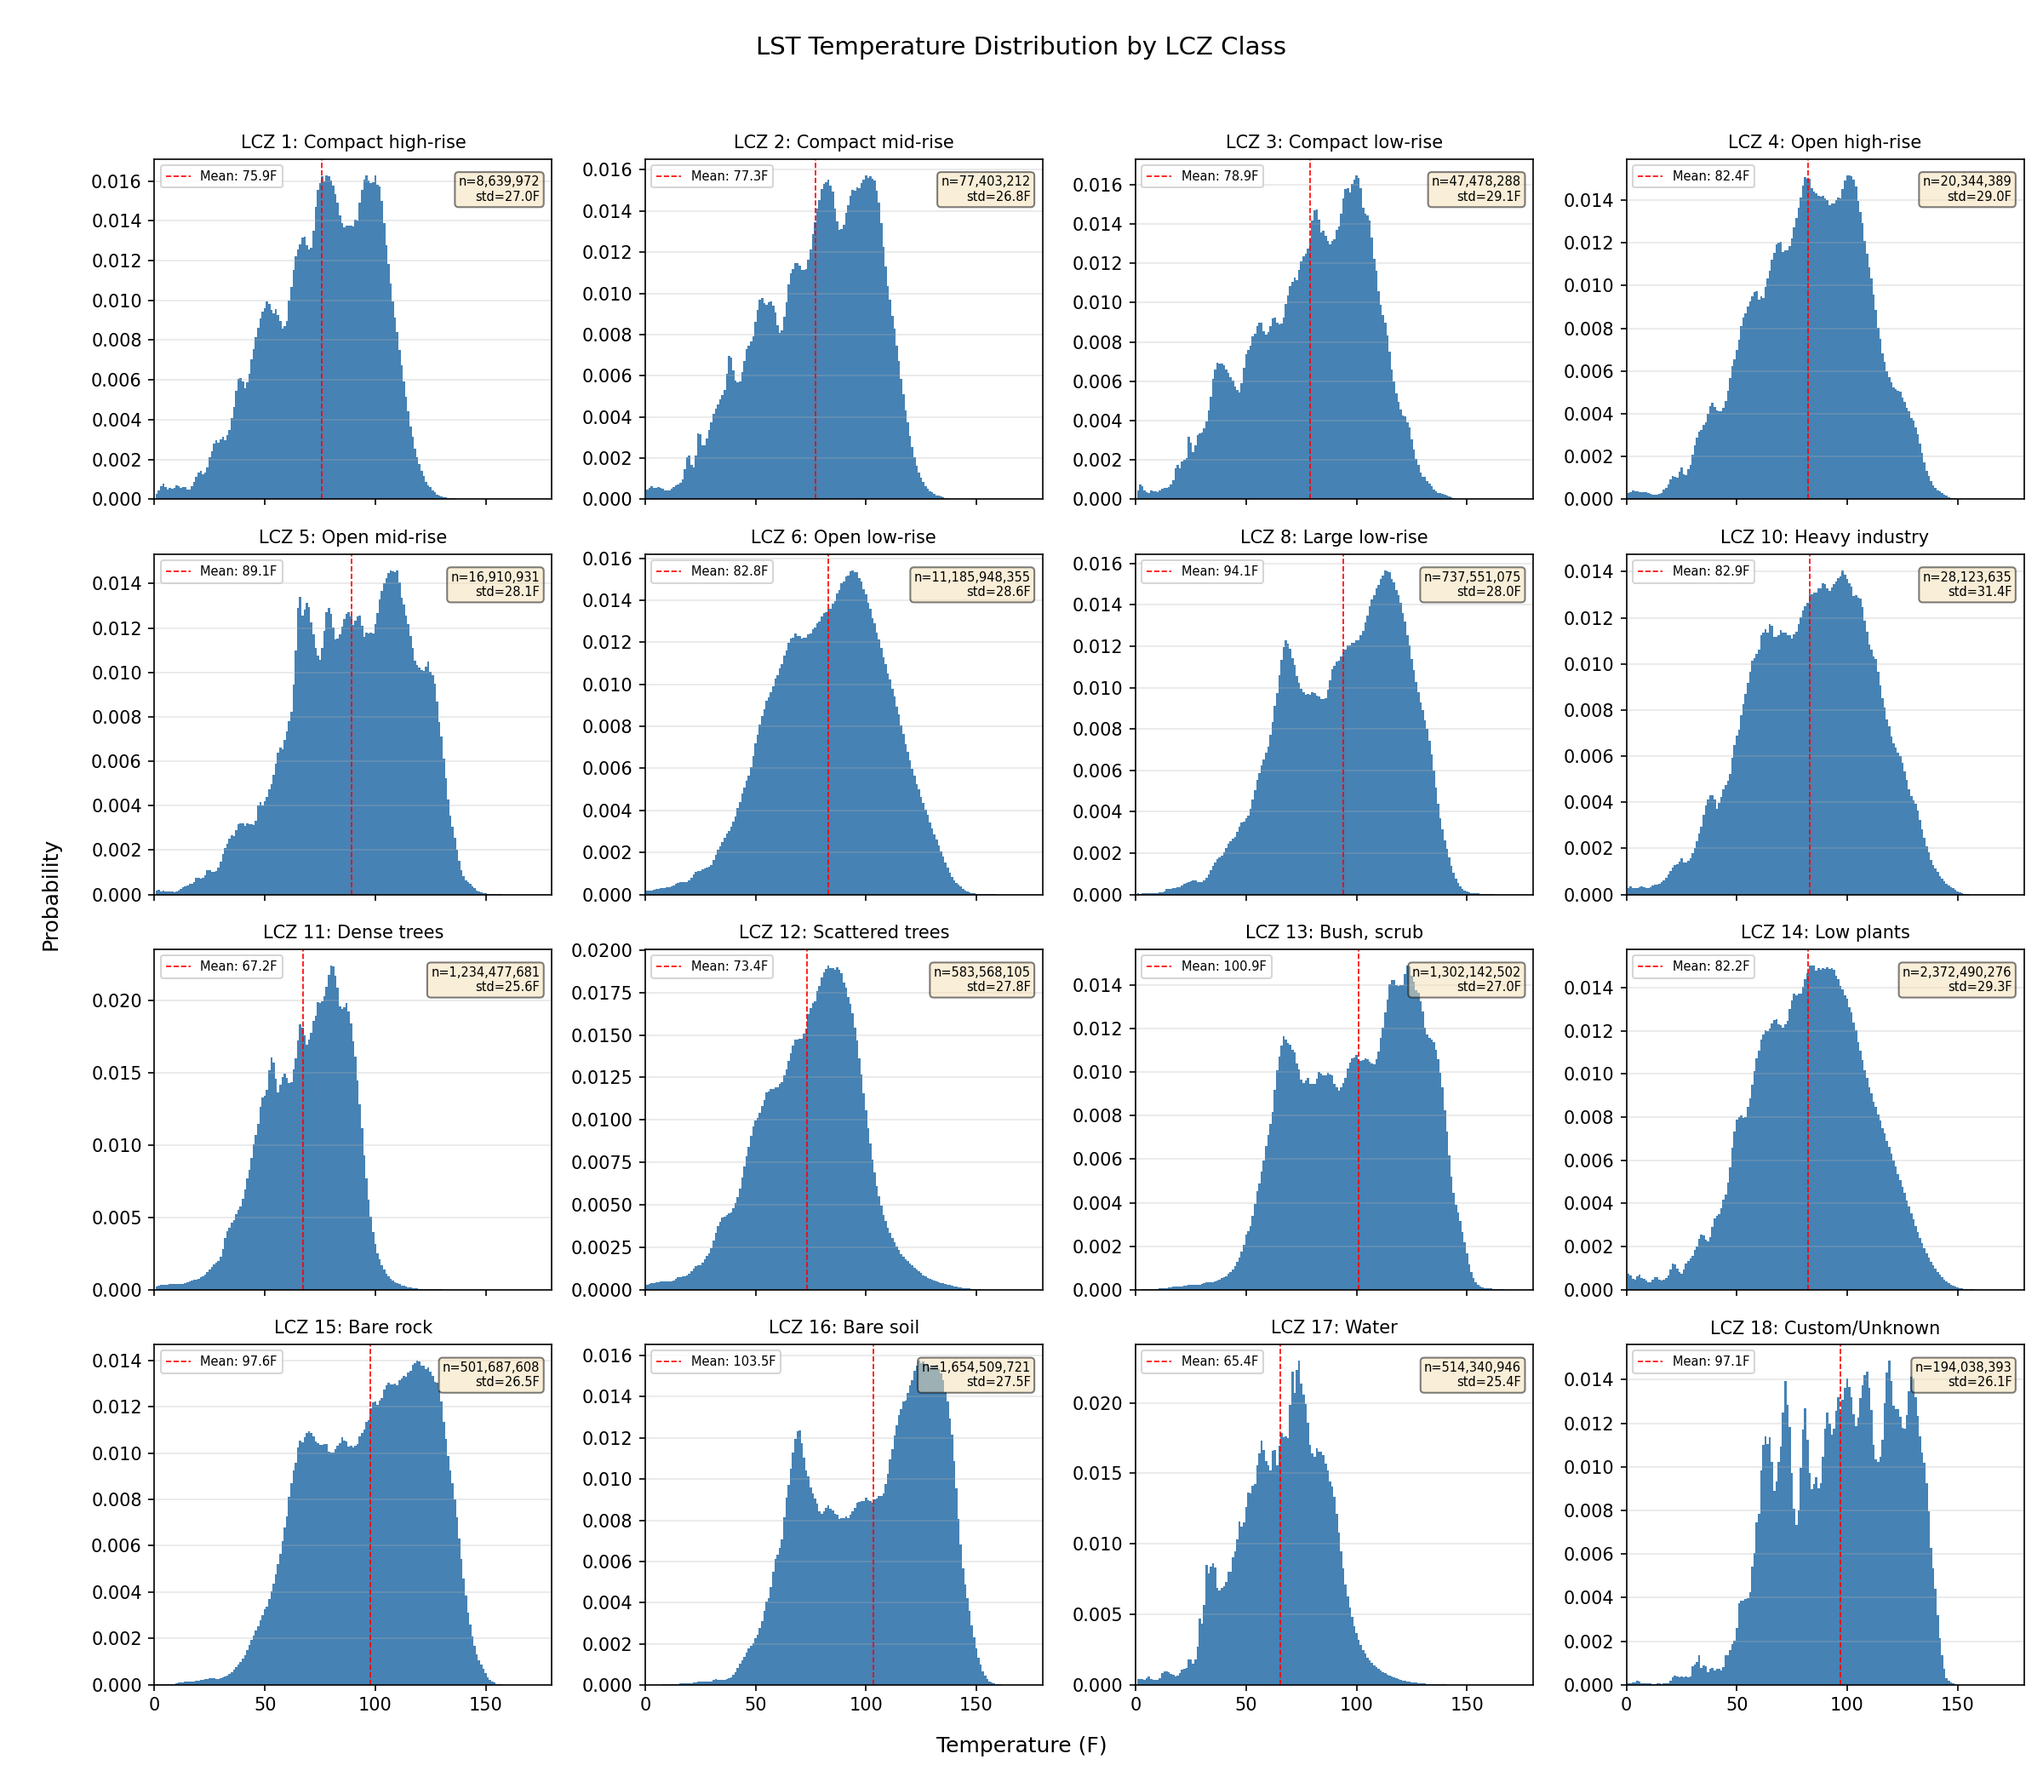
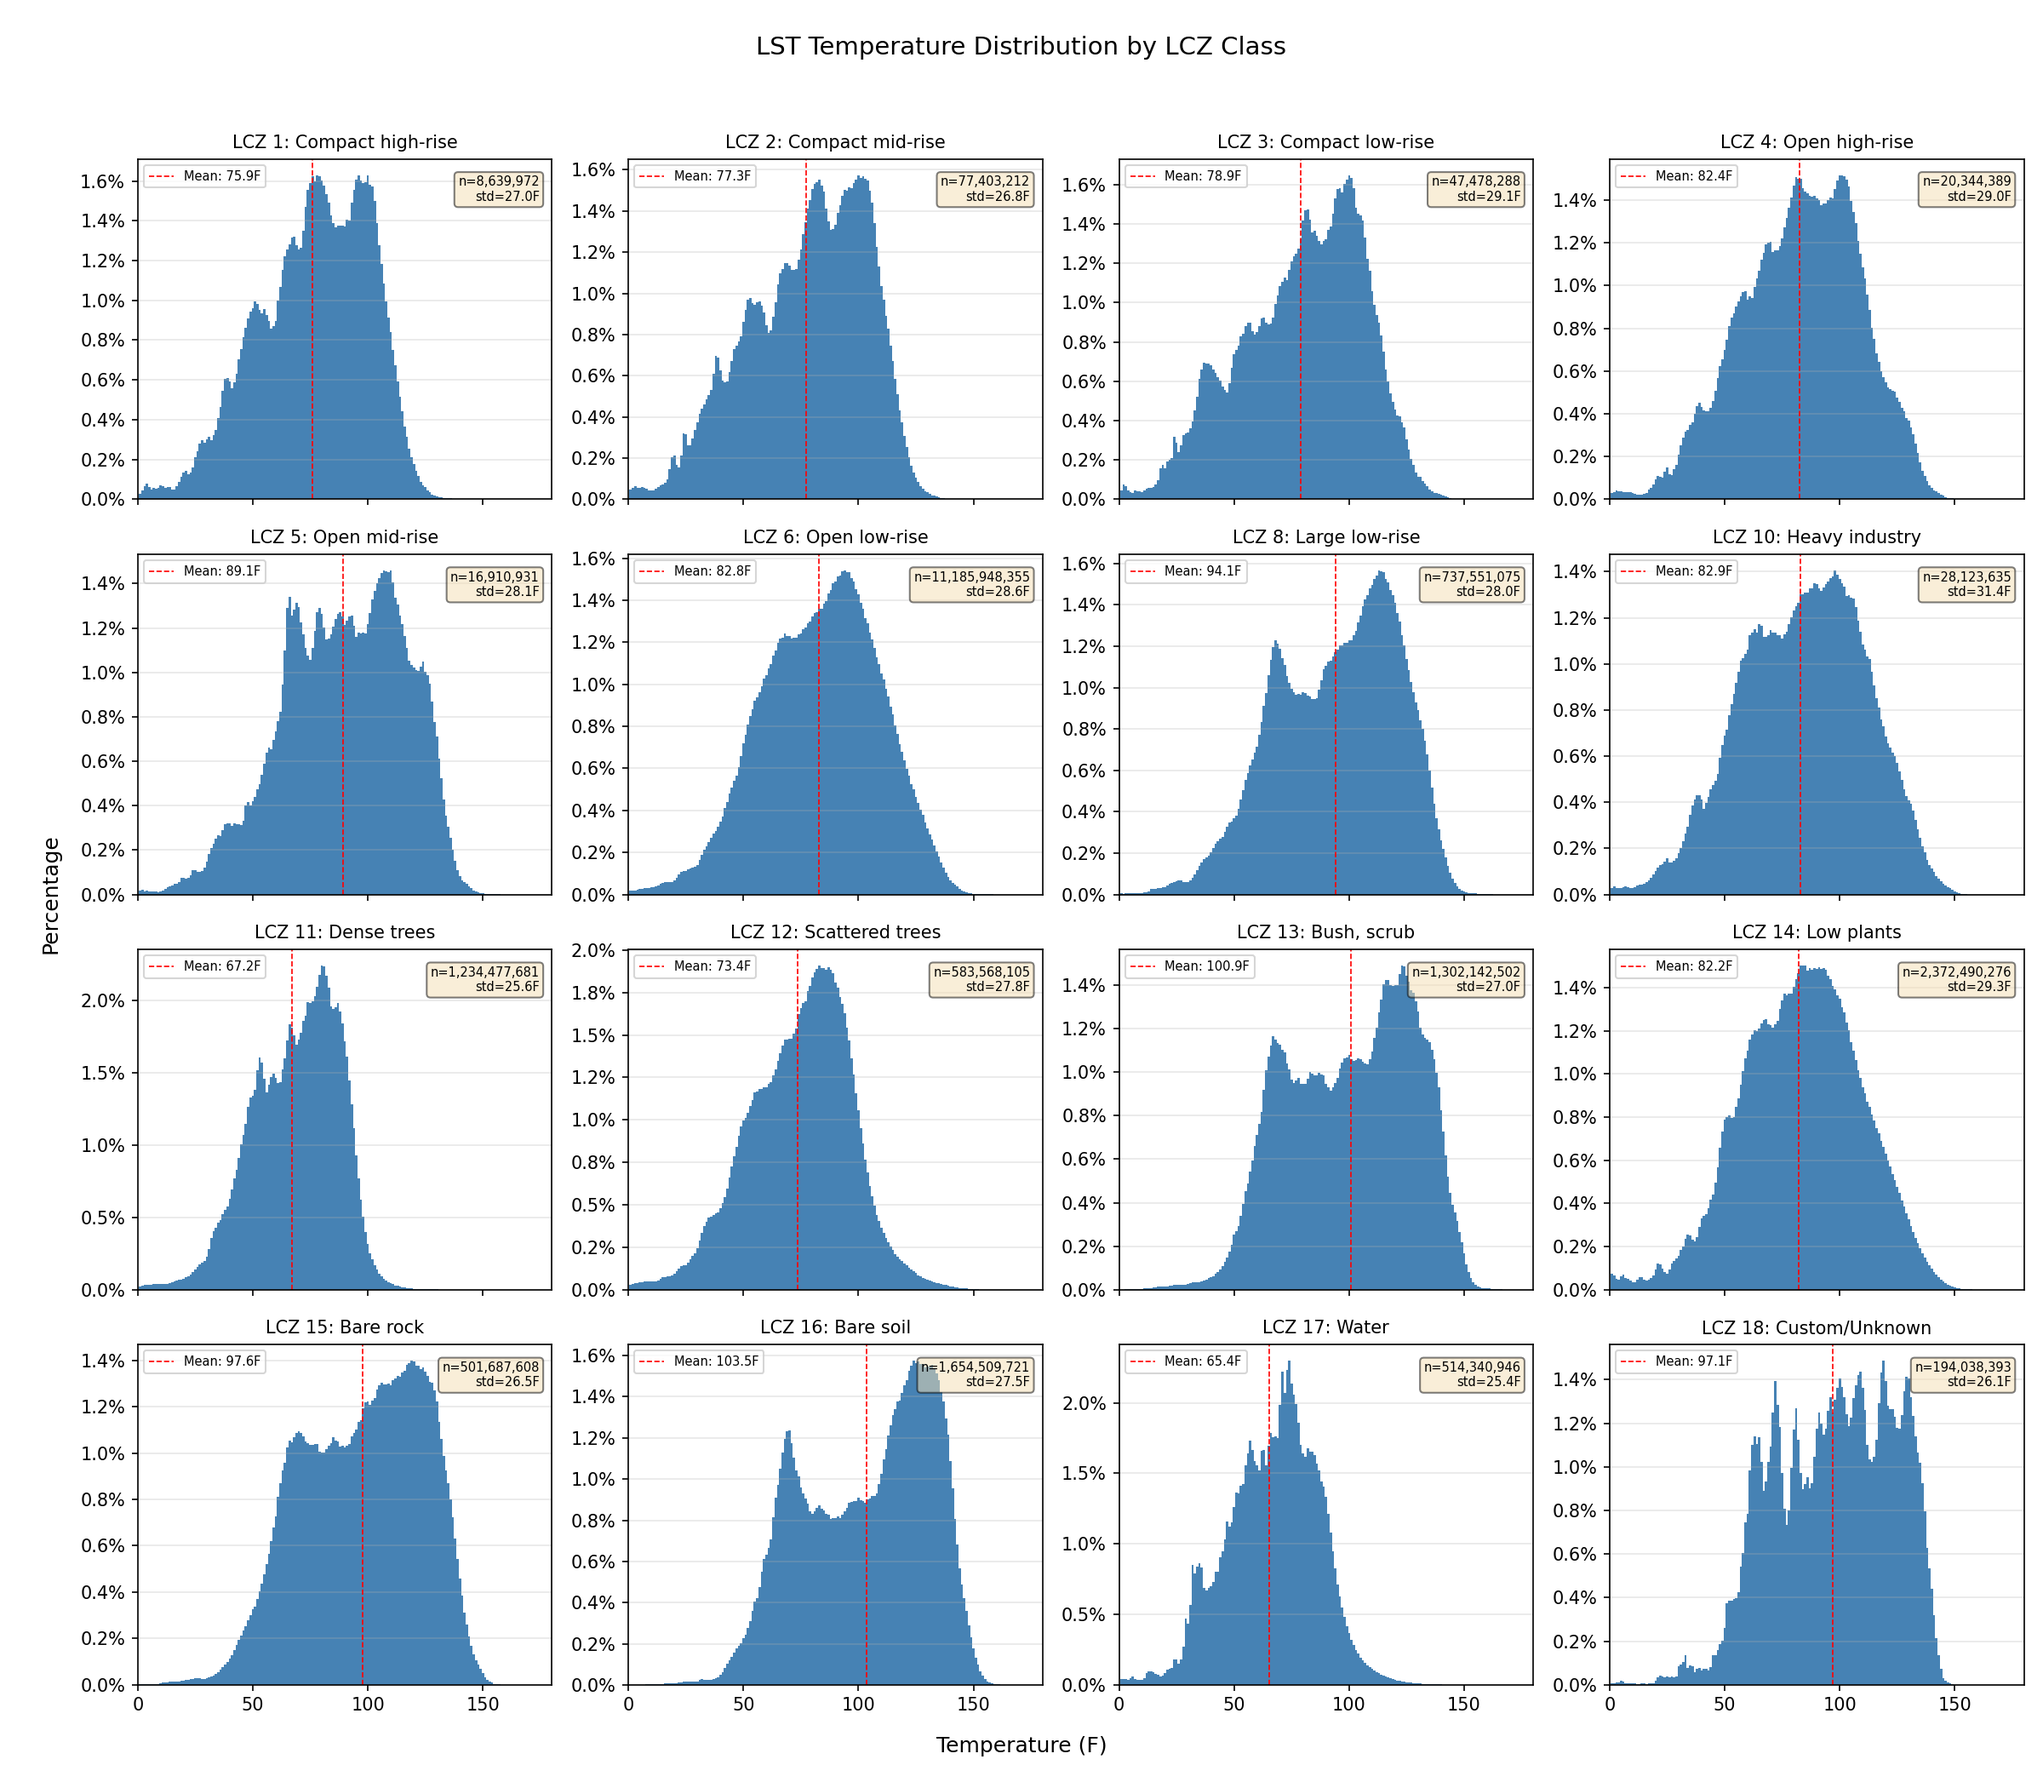
Add standalone subplot script with percentage y-axis
Reads from histogram data file, no dataset needed.

diff --git a/analysis/plot_lst_per_lcz_subplots.py b/analysis/plot_lst_per_lcz_subplots.py
@@ -1,0 +1,96 @@
+#!/usr/bin/env python3
+"""Regenerate LST-per-LCZ subplots from histogram data with percentage y-axis."""
+
+import numpy as np
+import matplotlib.pyplot as plt
+from matplotlib.ticker import FuncFormatter
+from pathlib import Path
+
+OUTPUT_DIR = Path(__file__).resolve().parent / "out"
+
+LCZ_LABELS = {
+    1: "Compact high-rise", 2: "Compact mid-rise", 3: "Compact low-rise",
+    4: "Open high-rise", 5: "Open mid-rise", 6: "Open low-rise",
+    8: "Large low-rise", 10: "Heavy industry",
+    11: "Dense trees", 12: "Scattered trees", 13: "Bush, scrub",
+    14: "Low plants", 15: "Bare rock", 16: "Bare soil",
+    17: "Water", 18: "Custom/Unknown",
+}
+
+# Parse histogram file
+data = {}  # {class_id: {'total': int, 'temps': [], 'counts': []}}
+current_class = None
+
+with open(OUTPUT_DIR / "lst_per_lcz_histograms.txt") as f:
+    for line in f:
+        line = line.strip()
+        if line.startswith("LCZ_CLASS"):
+            parts = line.split()
+            current_class = int(parts[1])
+            total = int(parts[-1].split("=")[1])
+            data[current_class] = {"total": total, "temps": [], "counts": []}
+        elif current_class and line and not line.startswith("Temp") and "\t" in line:
+            parts = line.split("\t")
+            data[current_class]["temps"].append(int(parts[0]))
+            data[current_class]["counts"].append(int(parts[1]))
+
+present_classes = sorted(data.keys())
+
+# Compute stats
+stats = {}
+for c in present_classes:
+    temps = np.array(data[c]["temps"])
+    counts = np.array(data[c]["counts"], dtype=np.float64)
+    total = counts.sum()
+    mean = np.sum(temps * counts) / total
+    var = np.sum(counts * (temps - mean) ** 2) / total
+    stats[c] = {"mean": mean, "std": np.sqrt(var), "total": int(total)}
+
+# Build full arrays for plotting (fill gaps with 0)
+TEMP_MIN, TEMP_MAX = -189, 211
+all_temps = np.arange(TEMP_MIN, TEMP_MAX + 1)
+histograms = {}
+for c in present_classes:
+    hist = np.zeros(len(all_temps))
+    temp_to_idx = {t: i for i, t in enumerate(all_temps)}
+    for t, cnt in zip(data[c]["temps"], data[c]["counts"]):
+        if t in temp_to_idx:
+            hist[temp_to_idx[t]] = cnt
+    total = hist.sum()
+    histograms[c] = (hist / total) * 100  # convert to percentage
+
+# Plot
+ncols = 4
+nrows = (len(present_classes) + ncols - 1) // ncols
+fig, axes = plt.subplots(nrows, ncols, figsize=(16, 3.5 * nrows), sharex=True, sharey=False)
+axes = axes.flatten()
+
+pct_fmt = FuncFormatter(lambda x, _: f"{x:.1f}%")
+
+for i, c in enumerate(present_classes):
+    ax = axes[i]
+    pct = histograms[c]
+    s = stats[c]
+    ax.bar(all_temps, pct, width=1, color='steelblue', edgecolor='none')
+    ax.set_title(f"LCZ {c}: {LCZ_LABELS.get(c, '?')}", fontsize=10)
+    ax.set_xlim(0, 180)
+    ax.set_ylim(0, ax.get_ylim()[1])
+    ax.yaxis.set_major_formatter(pct_fmt)
+    ax.axvline(s['mean'], color='red', linestyle='--', linewidth=0.8, label=f"Mean: {s['mean']:.1f}F")
+    ax.legend(fontsize=7, loc='upper left')
+    ax.grid(axis='y', alpha=0.3)
+    info = f"n={s['total']:,}\nstd={s['std']:.1f}F"
+    ax.text(0.97, 0.95, info, transform=ax.transAxes, fontsize=7,
+            verticalalignment='top', horizontalalignment='right',
+            bbox=dict(boxstyle='round,pad=0.3', facecolor='wheat', alpha=0.5))
+
+for i in range(len(present_classes), len(axes)):
+    axes[i].set_visible(False)
+
+fig.text(0.5, 0.02, "Temperature (F)", ha='center', fontsize=12)
+fig.text(0.02, 0.5, "Percentage", va='center', rotation='vertical', fontsize=12)
+fig.suptitle("LST Temperature Distribution by LCZ Class", fontsize=14, y=0.98)
+plt.tight_layout(rect=[0.03, 0.03, 1, 0.96])
+plt.savefig(OUTPUT_DIR / "lst_per_lcz_subplots.png", dpi=150)
+plt.close()
+print("Saved: lst_per_lcz_subplots.png")
